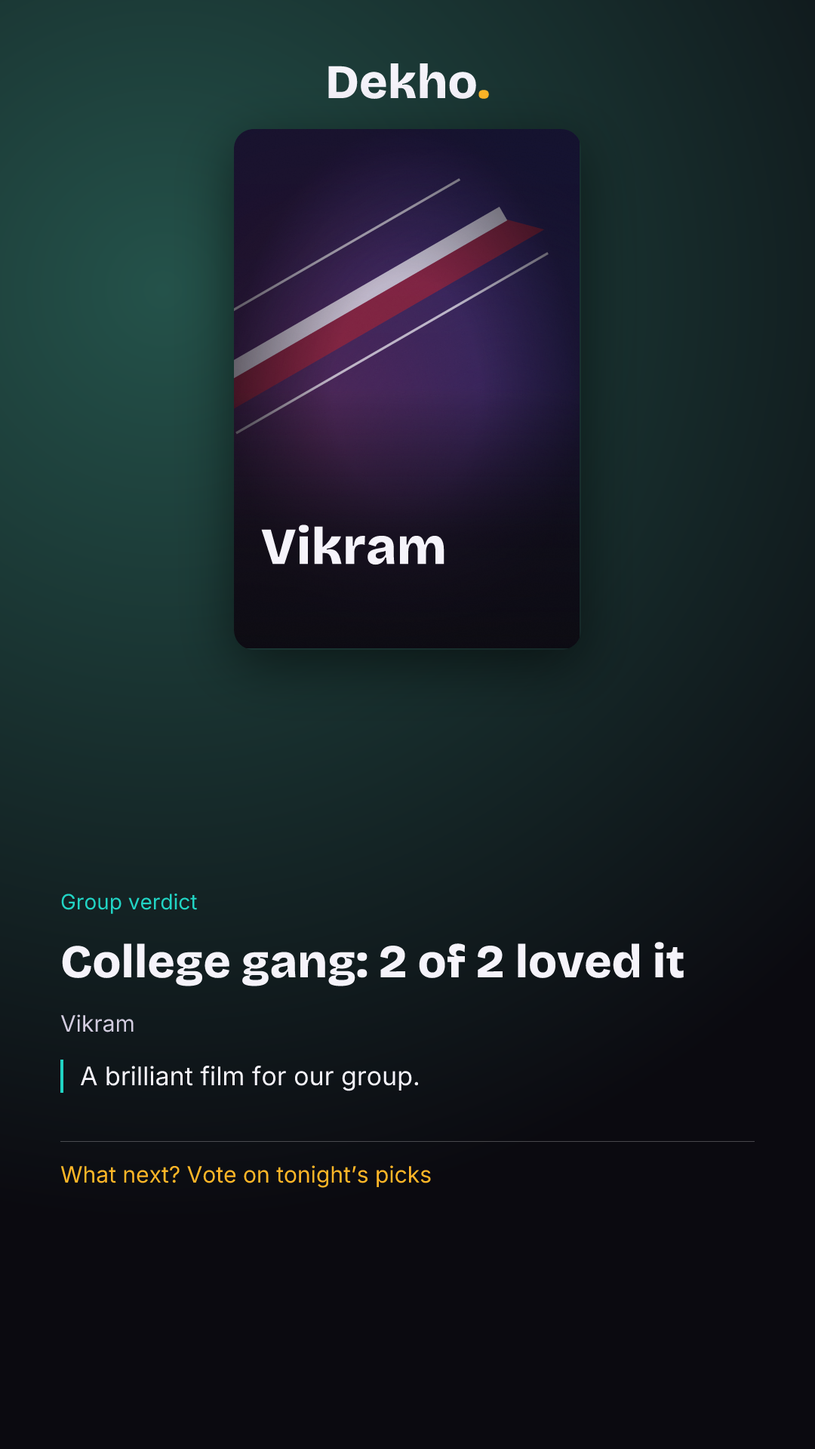
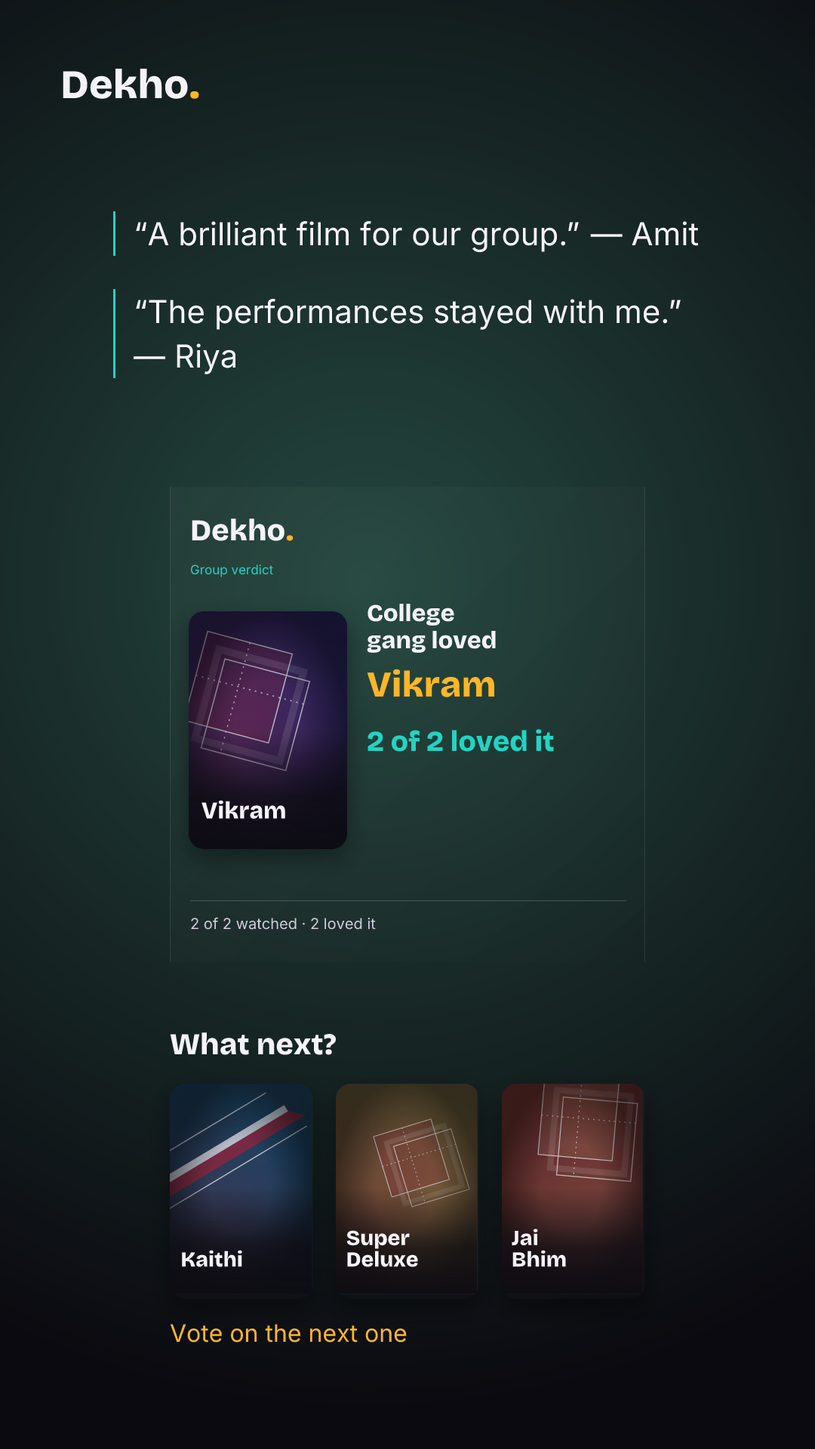
Audit credential history and refine verdict share cards

diff --git a/app/p/[id]/verdict-image/route.tsx b/app/p/[id]/verdict-image/route.tsx
@@ -2,24 +2,59 @@ import { ImageResponse } from 'next/og';
 import { readFile } from 'node:fs/promises';
 import path from 'node:path';
 import { brand } from '@/lib/brand';
-import { dataSource } from '@/lib/data';
+import { dataSource, type Title } from '@/lib/data';
 import { GeneratedPosterSvg } from '@/components/poster/PosterArtwork';
-import { fitTitle } from '@/lib/poster-art';
-import { parseVerdict } from '@/lib/polls/verdict-card';
+import { fitTitle, posterDesign } from '@/lib/poster-art';
+import { ogMotifs, type OgMotif } from '@/lib/polls/og';
+import { parseVerdict, verdictMood, verdictPreview, type VerdictCard } from '@/lib/polls/verdict-card';
 import { formatCopy } from '@/lib/copy';
 import { checkinCopy as c } from '@/.generated/copy/checkin';
 export const runtime='nodejs';
 const fonts=Promise.all([['Bricolage Grotesque','BricolageGrotesque-800.ttf',800],['Inter','Inter-400.ttf',400],['Inter','Inter-600.ttf',600]].map(async([name,file,weight])=>({name:String(name),data:await readFile(path.join(process.cwd(),'public/fonts',String(file))),weight:weight as 400|600|800,style:'normal' as const})));
+/** Rotate the default motif: the poll card's first poster uses that default. */
+function verdictMotif(title: Title): OgMotif { return ogMotifs[(ogMotifs.findIndex(m=>m===posterDesign(title).motif)+1)%ogMotifs.length]; }
+function Poster({title,width,id,alternate=false}: {title:Title;width:number;id:string;alternate?:boolean}) {
+ const fit=fitTitle(title.title,252,18,45);
+ return <div style={{display:'flex',width,height:width*1.5,overflow:'hidden',borderRadius:width<100?10:20,position:'relative',boxShadow:'0 12px 30px #0006',flexShrink:0}}><div style={{display:'flex',width:300,height:450,flexShrink:0,transform:`scale(${width/300})`,transformOrigin:'top left'}}><GeneratedPosterSvg title={title} definitionId={id} showTypography={false} motifOverride={alternate?verdictMotif(title):undefined}/><div style={{display:'flex',flexDirection:'column',position:'absolute',left:24,right:24,bottom:50,fontFamily:'Bricolage Grotesque',fontWeight:800,fontSize:fit.fontSize,lineHeight:1}}>{fit.lines.map((line,i)=><div key={i} style={{display:'flex'}}>{line}</div>)}</div></div></div>;
+}
+export async function GET(request:Request,context:{params:Promise<{id:string}>}) {
+ const mood=new URL(request.url).searchParams.get('preview');
+ if(!['loved','liked','split'].includes(mood??'')||(await context.params).id!=='verdict1')return new Response(formatCopy(c.invalid),{status:400});
+ return render(request,verdictPreview(mood as 'loved'|'liked'|'split'));
+}
 export async function POST(request:Request,context:{params:Promise<{id:string}>}) {
  const body=await request.text();if(body.length>4096)return new Response(formatCopy(c.invalid),{status:413});
  let card;try{card=parseVerdict(JSON.parse(body));}catch{return new Response(formatCopy(c.invalid),{status:400});}
- const {id}=await context.params;
- if(!card||card.pollId!==id)return new Response(formatCopy(c.invalid),{status:400});
+ if(!card||card.pollId!==(await context.params).id)return new Response(formatCopy(c.invalid),{status:400});
+ return render(request,card);
+}
+async function render(request:Request,card:VerdictCard) {
  const title=await dataSource.getTitle(card.titleId);if(!title)return new Response(formatCopy(c.invalid),{status:404});
- const story=new URL(request.url).searchParams.get('format')==='story',width=story?1080:1200,height=story?1920:630,posterW=story?460:300;
- const fit=fitTitle(title.title,252,18,45);
- return new ImageResponse(<div style={{display:'flex',flexDirection:story?'column':'row',width,height,padding:story?'70px 80px':'40px 50px',background:'radial-gradient(circle at 20% 20%, #24524A, #0B0A10 70%)',color:'#F5F3FA',gap:story?40:50,fontFamily:'Inter'}}>
-  <div style={{display:'flex',flexDirection:'column',alignItems:'center',flexShrink:0,width:story?'100%':320}}><div style={{display:'flex',fontFamily:'Bricolage Grotesque',fontWeight:800,fontSize:story?64:40,marginBottom:24}}>{brand.name}<span style={{color:brand.colors.marigold}}>{'.'}</span></div><div style={{display:'flex',width:posterW,height:posterW*1.5,overflow:'hidden',borderRadius:26,position:'relative',boxShadow:'0 20px 70px #0008'}}><div style={{display:'flex',width:300,height:450,flexShrink:0,transform:`scale(${posterW/300})`,transformOrigin:'top left'}}><GeneratedPosterSvg title={title} definitionId="verdict-poster" showTypography={false}/><div style={{display:'flex',flexDirection:'column',position:'absolute',left:24,right:24,bottom:65,fontFamily:'Bricolage Grotesque',fontWeight:800,fontSize:fit.fontSize,lineHeight:1}}>{fit.lines.map((line,i)=><div key={i} style={{display:'flex'}}>{line}</div>)}</div></div></div></div>
-  <div style={{display:'flex',flex:1,flexDirection:'column',justifyContent:'center',gap:story?30:20}}><div style={{display:'flex',color:brand.colors.teal,fontSize:story?28:20}}>{formatCopy(c.verdict)}</div><div style={{display:'flex',fontFamily:'Bricolage Grotesque',fontWeight:800,fontSize:story?62:card.group.length>35?38:48,lineHeight:1.06}}>{formatCopy(c.shareSummary,{...card})}</div><div style={{display:'flex',fontSize:story?30:22,color:'#D2CCDF'}}>{title.title}</div>{card.take&&<div style={{display:'flex',fontSize:story?34:25,borderLeft:'4px solid #21D4C4',paddingLeft:22,lineHeight:1.3}}>{card.take}</div>}<div style={{display:'flex',marginTop:story?34:15,paddingTop:25,borderTop:'1px solid #FFFFFF40',fontSize:story?30:23,color:brand.colors.marigold}}>{formatCopy(c.nextTag)}</div></div>
+ const picks=(await dataSource.getSimilar(title.id,3)).map(p=>p.title);
+ const story=new URL(request.url).searchParams.get('format')==='story',width=story?1080:1200,height=story?1920:630;
+ const mood=verdictMood(card),count=mood==='loved'?card.loved:card.loved+card.liked;
+ const headline=formatCopy(c[`${mood}Headline`],{group:card.group});
+ const titleFit=fitTitle(title.title,330,24,48), groupFit=fitTitle(headline,330,20,32);
+ // The core is exactly the center 630×630 of either format: x=285/y=0 or x=225/y=645.
+ const coreX=(width-630)/2,coreY=(height-630)/2;
+ return new ImageResponse(<div style={{display:'flex',width,height,background:'radial-gradient(circle at 45% 40%, #24473E, #0B0A10 85%)',color:'#F5F3FA',fontFamily:'Inter',position:'relative'}}>
+  <div style={{display:'flex',position:'absolute',left:coreX,top:coreY,width:630,height:630,background:'linear-gradient(135deg,#FFFFFF08,#FFFFFF00)',borderLeft:'1px solid #FFFFFF18',borderRight:'1px solid #FFFFFF18'}}>
+   <div style={{display:'flex',position:'absolute',left:26,top:34,fontFamily:'Bricolage Grotesque',fontWeight:800,fontSize:40}}>{brand.name}<span style={{color:brand.colors.marigold}}>{'.'}</span></div>
+   <div style={{display:'flex',position:'absolute',left:26,top:100,color:brand.colors.teal,fontSize:17}}>{formatCopy(c.verdict)}</div>
+   <div style={{display:'flex',position:'absolute',left:24,top:165}}><Poster title={title} width={210} id="verdict-winner" alternate/></div>
+   <div style={{display:'flex',flexDirection:'column',position:'absolute',left:260,top:150,width:344}}>
+    <div style={{display:'flex',flexDirection:'column',fontFamily:'Bricolage Grotesque',fontWeight:800,fontSize:groupFit.fontSize,lineHeight:1.12}}>{groupFit.lines.map((line,i)=><div key={i} style={{display:'flex'}}>{line}</div>)}</div>
+    <div style={{display:'flex',flexDirection:'column',fontFamily:'Bricolage Grotesque',fontWeight:800,fontSize:titleFit.fontSize,lineHeight:1.04,color:brand.colors.marigold,marginTop:15}}>{titleFit.lines.map((line,i)=><div key={i} style={{display:'flex'}}>{line}</div>)}</div>
+    <div style={{display:'flex',marginTop:30,fontFamily:'Bricolage Grotesque',fontWeight:800,fontSize:38,lineHeight:1.1,color:brand.colors.teal}}>{formatCopy(c[`${mood}Stat`],{count,total:card.total})}</div>
+   </div>
+   <div style={{display:'flex',position:'absolute',left:26,top:548,width:578,borderTop:'1px solid #FFFFFF30',paddingTop:18,fontSize:20,color:'#D2CCDF'}}>{formatCopy(c.summary,{watched:card.watched,total:card.total,loved:card.loved})}</div>
+  </div>
+  {story&&<div style={{display:'flex',position:'absolute',left:80,top:80,fontFamily:'Bricolage Grotesque',fontWeight:800,fontSize:54}}>{brand.name}<span style={{color:brand.colors.marigold}}>{'.'}</span></div>}
+  <div style={{display:'flex',flexDirection:'column',position:'absolute',left:story?150:24,top:story?180:195,width:story?780:230,...(story?{height:420,justifyContent:'center' as const}:{}),gap:story?44:20}}>{card.takes.slice(0,story?2:1).map((take,i)=><div key={i} style={{display:'flex',fontSize:story?42:24,lineHeight:1.4,borderLeft:'3px solid #21D4C4',paddingLeft:story?24:14}}>{formatCopy(c.attributedTake,take)}</div>)}</div>
+  <div style={{display:'flex',flexDirection:'column',position:'absolute',left:story?225:944,top:story?1360:154,width:story?630:232}}>
+   <div style={{display:'flex',fontFamily:'Bricolage Grotesque',fontWeight:800,fontSize:story?40:28,marginBottom:story?28:24}}>{formatCopy(c.whatNext)}</div>
+   <div style={{display:'flex',gap:story?30:8}}>{picks.map((pick,i)=><Poster key={pick.id} title={pick} width={story?190:72} id={`next-${i}`}/>)}</div>
+   <div style={{display:'flex',fontSize:story?32:25,color:brand.colors.marigold,marginTop:story?26:24,lineHeight:1.2}}>{formatCopy(c.voteNext)}</div>
+  </div>
  </div>,{width,height,fonts:await fonts});
 }

diff --git a/tests/watch-checkins.test.ts b/tests/watch-checkins.test.ts
@@ -2,7 +2,7 @@ import { beforeEach, afterEach, describe, expect, it, vi } from 'vitest';
 import { checkinDue, closedTime, validCheckin, verdict, winnerId, type Checkin } from '../lib/polls/checkins';
 import { pollStore, getCheckins, saveCheckin, getCheckinPolls, getGroupRating } from '../lib/polls';
 import { voterIdentity } from '../lib/polls/identity';
-import { parseVerdict } from '../lib/polls/verdict-card';
+import { parseVerdict, verdictMood, verdictPreview } from '../lib/polls/verdict-card';
 import type { Poll } from '../lib/polls/types';
 const now=Date.parse('2026-11-15T12:00:00Z'),hour=3600000;
 const poll:Poll={id:'test1234',name:'Night',note:'',titleIds:['vikram','kaithi'],deadline:new Date(now+hour).toISOString(),closedAt:new Date(now-6*hour).toISOString(),votes:{},expectedVoters:0,ballots:{me:{name:'Amit',ratings:{vikram:{score:1},kaithi:{score:1}}},other:{name:'Riya',ratings:{vikram:{score:1},kaithi:{score:1}}}}};
@@ -10,10 +10,17 @@ const row:Checkin={device:'me',titleId:'kaithi',name:'Amit',watched:true,rating:
 beforeEach(()=>{const values=new Map<string,string>();vi.stubGlobal('localStorage',{getItem:(k:string)=>values.get(k)??null,setItem:(k:string,v:string)=>values.set(k,v),removeItem:(k:string)=>values.delete(k)});vi.stubGlobal('window',new EventTarget());vi.stubGlobal('BroadcastChannel',undefined);});
 afterEach(()=>{vi.unstubAllGlobals();vi.useRealTimers();});
 describe('post-watch timing and summaries',()=>{
+ it('derives verdict headlines from watched ratings, validates counts and preserves attribution',()=>{
+  for(const mood of ['loved','liked','split'] as const){const card=verdictPreview(mood);expect(verdictMood(card)).toBe(mood);expect(parseVerdict(card)?.takes[0]).toEqual({name:'Amit',take:'A brilliant film for our group.'});}
+  expect(verdictMood({watched:4,loved:2,liked:1})).toBe('liked');
+  expect(verdictMood({watched:4,loved:2,liked:0})).toBe('split');
+  expect(parseVerdict({...verdictPreview('loved'),liked:1})).toBeNull();
+  expect(parseVerdict({...verdictPreview('loved'),takes:[{name:'',take:'Good'}]})).toBeNull();
+ });
  it('shows only participating devices, six hours after the effective finish',()=>{expect(checkinDue(poll,'me',[],now-1)).toBe(false);expect(checkinDue(poll,'me',[],now)).toBe(true);expect(checkinDue(poll,'stranger',[],now,true)).toBe(false);expect(checkinDue({...poll,closedAt:undefined},'me',[],now,true)).toBe(false);expect(checkinDue(poll,'me',[],now-5*hour,true)).toBe(true);expect(closedTime({...poll,deadline:new Date(now-8*hour).toISOString()})).toBe(now-8*hour);});
  it('dismisses skips and completed reviews, snoozes Not yet even in demo',()=>{expect(checkinDue(poll,'me',[row],now,true)).toBe(false);expect(checkinDue(poll,'me',[{...row,watched:false,rating:null}],now,true)).toBe(false);const later={...row,watched:null,rating:null,take:''};expect(checkinDue(poll,'me',[later],now,true)).toBe(false);expect(checkinDue(poll,'me',[later],now+24*hour)).toBe(true);});
  it('counts loved only among watched, uses all voters as denominator and ranks top take',()=>{const rows=[row,{...row,device:'other',name:'Riya',watched:false,rating:null,take:''}];expect(verdict(poll,rows)).toMatchObject({total:2,watched:1,loved:1});expect(verdict(poll,rows).takes).toEqual([row]);expect(winnerId(poll,{vikram:8,kaithi:9})).toBe('kaithi');expect(winnerId({...poll,ballots:{}},{})).toBeUndefined();});
- it('rejects invalid rating/take combinations and forged card totals',()=>{expect(validCheckin({watched:true,rating:null,take:''})).toBe(false);expect(validCheckin({watched:false,rating:2,take:''})).toBe(false);expect(validCheckin({watched:null,rating:null,take:'No'})).toBe(false);expect(validCheckin({watched:true,rating:1,take:'x'.repeat(81)})).toBe(false);const card={pollId:'test1234',titleId:'kaithi',group:'College gang',total:2,watched:1,loved:1,take:'Excellent'};expect(parseVerdict(card)).toEqual(card);expect(parseVerdict({...card,loved:2})).toBeNull();expect(parseVerdict({...card,take:'x'.repeat(81)})).toBeNull();});
+ it('rejects invalid rating/take combinations and forged card totals',()=>{expect(validCheckin({watched:true,rating:null,take:''})).toBe(false);expect(validCheckin({watched:false,rating:2,take:''})).toBe(false);expect(validCheckin({watched:null,rating:null,take:'No'})).toBe(false);expect(validCheckin({watched:true,rating:1,take:'x'.repeat(81)})).toBe(false);const card={pollId:'test1234',titleId:'kaithi',group:'College gang',total:2,watched:1,loved:1,liked:0,takes:[{name:'Amit',take:'Excellent'}]};expect(parseVerdict(card)).toEqual(card);expect(parseVerdict({...card,loved:2})).toBeNull();expect(parseVerdict({...card,takes:[{name:'Amit',take:'x'.repeat(81)}]})).toBeNull();});
  it('saves one check-in per device/poll, excludes open polls/nonvoters and feeds title satisfaction',async()=>{
   const me=voterIdentity().id;const p=await pollStore.createPoll({name:'Movie night',note:'',groupName:'College gang',titleIds:['vikram','kaithi'],deadline:new Date(Date.now()+hour).toISOString(),expectedVoters:0,creator:{id:me,name:'Amit'}});
   await expect(saveCheckin(p.id,{watched:true,rating:2,take:''})).rejects.toThrow();

diff --git a/components/watch-checkin.tsx b/components/watch-checkin.tsx
@@ -34,7 +34,7 @@ export default function GroupVerdict({poll,demo=false}: {poll:Poll;demo?:boolean
  useEffect(()=>{void refresh();const off=pollStore.subscribe(()=>void refresh());return off;},[refresh]);
  useEffect(()=>{const all=urls.current;return()=>all.forEach(u=>URL.revokeObjectURL(u));},[]);
  const summary=rows?verdict(poll,rows):null;
- async function share(){if(!summary||!title||busy)return;setBusy(true);setError('');try{const card={pollId:poll.id,titleId:title.id,group:poll.groupName||poll.name,total:summary.total,watched:summary.watched,loved:summary.loved,take:summary.takes[0]?.take??''};const blobs=await Promise.all(['wide','story'].map(async format=>{const r=await fetch(`/p/${poll.id}/verdict-image?format=${format}`,{method:'POST',headers:{'Content-Type':'application/json'},body:JSON.stringify(card)});if(!r.ok)throw Error();return r.blob();}));urls.current.forEach(u=>URL.revokeObjectURL(u));urls.current=blobs.map(b=>URL.createObjectURL(b));setDownloads(urls.current);files.current=blobs.map((b,i)=>new File([b],i?'verdict-story.png':'verdict.png',{type:'image/png'}));if(navigator.canShare?.({files:files.current})){await navigator.share({files:files.current,title:t('verdict')});setShared(true);track('verdict_share',{pollId:poll.id,method:'files'});}}catch(e){if(!(e instanceof Error&&e.name==='AbortError'))setError(t('error'));}finally{setBusy(false);}}
+ async function share(){if(!summary||!title||busy)return;setBusy(true);setError('');try{const card={pollId:poll.id,titleId:title.id,group:poll.groupName||poll.name,total:summary.total,watched:summary.watched,loved:summary.loved,liked:rows!.filter(r=>r.watched===true&&r.rating===1).length,takes:summary.takes.slice(0,2).map(r=>({name:r.name,take:r.take}))};const blobs=await Promise.all(['wide','story'].map(async format=>{const r=await fetch(`/p/${poll.id}/verdict-image?format=${format}`,{method:'POST',headers:{'Content-Type':'application/json'},body:JSON.stringify(card)});if(!r.ok)throw Error();return r.blob();}));urls.current.forEach(u=>URL.revokeObjectURL(u));urls.current=blobs.map(b=>URL.createObjectURL(b));setDownloads(urls.current);files.current=blobs.map((b,i)=>new File([b],i?'verdict-story.png':'verdict.png',{type:'image/png'}));if(navigator.canShare?.({files:files.current})){await navigator.share({files:files.current,title:t('verdict')});setShared(true);track('verdict_share',{pollId:poll.id,method:'files'});}}catch(e){if(!(e instanceof Error&&e.name==='AbortError'))setError(t('error'));}finally{setBusy(false);}}
  async function next(){if(!title)return;setBusy(true);try{const picks=await dataSource.getSimilar(title.id,3);const {usePrototype}=await import('@/lib/store');await usePrototype.persist.rehydrate();usePrototype.getState().setShortlist(picks.map(p=>p.title.id));track('next_poll_start',{pollId:poll.id,titleId:title.id});router.push(`/poll/new?group=${encodeURIComponent(poll.groupName??'')}`);}catch{setError(t('nextError'));}finally{setBusy(false);}}
  return <section className="group-verdict"><h2>{t('verdict')}</h2>{error&&<><p role="alert">{error}</p><button className="button button-secondary" onClick={()=>void refresh()}>{t('retry')}</button></>}{!rows&&!error&&<div className="skeleton checkin-loading" aria-label={t('loading')}/>}{rows&&title&&<WatchCheckin poll={poll} rows={rows} title={title} demo={demo} onSave={()=>void refresh()}/>} {summary&&rows&&(rows.length?<><p className="verdict-summary">{t('summary',summary)}</p>{summary.takes.map(r=><blockquote key={r.device}>{r.take}<cite>{r.name}</cite></blockquote>)}<button className="button button-primary" disabled={busy} onClick={()=>void share()}>{t(busy?'prepare':'share')}</button>{downloads.length>0&&<div className="result-downloads"><p>{t('ready')}</p>{downloads.map((url,i)=><a key={url} href={url} download={i?'verdict-story.png':'verdict.png'} onClick={()=>{setShared(true);track('verdict_share',{pollId:poll.id,method:'download'});}}>{t(i?'story':'wide')}</a>)}<a target="_blank" rel="noopener noreferrer" href={`https://wa.me/?text=${encodeURIComponent(`${t('shareSummary',{group:poll.groupName||poll.name,...summary})}. ${t('nextTag')} ${location.origin}/p/${poll.id}/result`)}`} onClick={()=>{setShared(true);track('verdict_share',{pollId:poll.id,method:'whatsapp'});}}>{t('whatsapp')}</a></div>}{shared&&<button className="button button-primary" disabled={busy} onClick={()=>void next()}>{t('next')}</button>}</>:<p className="muted">{t('empty')}</p>)}</section>;
 }

diff --git a/lib/polls/verdict-card.ts b/lib/polls/verdict-card.ts
@@ -1,8 +1,19 @@
-export interface VerdictCard { pollId: string; titleId: string; group: string; total: number; watched: number; loved: number; take: string }
+export interface VerdictCard { pollId: string; titleId: string; group: string; total: number; watched: number; loved: number; liked: number; takes: { name: string; take: string }[] }
+export type VerdictMood = 'loved' | 'liked' | 'split';
+/** A strict majority of watched ratings determines the headline. Loved is also positive. */
+export function verdictMood(card: Pick<VerdictCard,'watched'|'loved'|'liked'>): VerdictMood {
+ if(card.loved > card.watched / 2)return 'loved';
+ if(card.loved + card.liked > card.watched / 2)return 'liked';
+ return 'split';
+}
 export function parseVerdict(value: unknown): VerdictCard | null {
  if(!value||typeof value!=='object')return null;
  const v=value as VerdictCard;
- if(typeof v.pollId!=='string'||!/^[A-Za-z0-9_-]{8}$/.test(v.pollId)||typeof v.titleId!=='string'||!/^[a-z0-9-]{1,100}$/.test(v.titleId)||typeof v.group!=='string'||!v.group.trim()||v.group.length>80||typeof v.take!=='string'||v.take.length>80)return null;
- if(![v.total,v.watched,v.loved].every(n=>Number.isInteger(n)&&n>=0&&n<=10000)||!v.total||v.loved>v.watched||v.watched>v.total)return null;
- return {pollId:v.pollId,titleId:v.titleId,group:v.group,total:v.total,watched:v.watched,loved:v.loved,take:v.take};
+ if(typeof v.pollId!=='string'||!/^[A-Za-z0-9_-]{8}$/.test(v.pollId)||typeof v.titleId!=='string'||!/^[a-z0-9-]{1,100}$/.test(v.titleId)||typeof v.group!=='string'||!v.group.trim()||v.group.length>80)return null;
+ if(![v.total,v.watched,v.loved,v.liked].every(n=>Number.isInteger(n)&&n>=0&&n<=10000)||!v.total||v.loved+v.liked>v.watched||v.watched>v.total)return null;
+ if(!Array.isArray(v.takes)||v.takes.length>2||v.takes.some(t=>!t||typeof t.name!=='string'||!t.name.trim()||t.name.length>40||typeof t.take!=='string'||!t.take.trim()||t.take.length>80))return null;
+ return {pollId:v.pollId,titleId:v.titleId,group:v.group,total:v.total,watched:v.watched,loved:v.loved,liked:v.liked,takes:v.takes};
+}
+export function verdictPreview(mood: VerdictMood): VerdictCard {
+ return {pollId:'verdict1',titleId:'vikram',group:'College gang',total:2,watched:2,loved:mood==='loved'?2:0,liked:mood==='liked'?2:mood==='split'?1:0,takes:[{name:'Amit',take:'A brilliant film for our group.'},{name:'Riya',take:'The performances stayed with me.'}]};
 }

diff --git a/lib/copy.ts b/lib/copy.ts
@@ -3059,6 +3059,23 @@ export const labelsCopy = {
   }
 } as const;
 export const checkinCopy = {
+"lovedHeadline": {"indianEnglish": "{group} loved", "hinglish": "{group} loved"},
+"likedHeadline": {"indianEnglish": "{group} liked", "hinglish": "{group} liked"},
+"splitHeadline": {"indianEnglish": "{group} were split on", "hinglish": "{group} were split on"},
+"lovedStat": {"indianEnglish": "{count} of {total} loved it", "hinglish": "{count} of {total} loved it"},
+"likedStat": {"indianEnglish": "{count} of {total} liked it", "hinglish": "{count} of {total} liked it"},
+"splitStat": {"indianEnglish": "{count} of {total} liked it", "hinglish": "{count} of {total} liked it"},
+"whatNext": {"indianEnglish": "What next?", "hinglish": "What next?"},
+"voteNext": {"indianEnglish": "Vote on the next one", "hinglish": "Vote on the next one"},
+"attributedTake": {"indianEnglish": "“{take}” — {name}", "hinglish": "“{take}” — {name}"},
+"verdictPreviews": {"indianEnglish": "Post-watch verdict cards", "hinglish": "Post-watch verdict cards"},
+"previewLoved": {"indianEnglish": "Loved", "hinglish": "Loved"},
+"previewLiked": {"indianEnglish": "Liked", "hinglish": "Liked"},
+"previewSplit": {"indianEnglish": "Split", "hinglish": "Split"},
+"previewAlt": {"indianEnglish": "{mood} verdict card — {format}", "hinglish": "{mood} verdict card — {format}"},
+"wideFormat": {"indianEnglish": "Wide", "hinglish": "Wide"},
+"storyFormat": {"indianEnglish": "Story", "hinglish": "Story"},
+
   "question": {
     "indianEnglish": "Did you watch {title}?",
     "hinglish": "Did you watch {title}?"

diff --git a/app/(app)/kit/og/page.tsx b/app/(app)/kit/og/page.tsx
@@ -1,4 +1,5 @@
 
+import { checkinCopy as c } from '@/.generated/copy/checkin';
 import { formatCopy } from '@/lib/copy';
 import { kitCopy } from '@/.generated/copy/kit';
 import { brand } from '@/lib/brand';
@@ -15,5 +16,10 @@ export default function OgKitPage() {
         <span aria-hidden="true" style={{ position: 'absolute', pointerEvents: 'none', top: 0, bottom: 0, left: '23.75%', width: '52.5%', border: '1px dashed #21D4C4' }}/>
       </a></section>;
     })}
+    <h2 style={{marginTop:40}}>{formatCopy(c.verdictPreviews)}</h2>
+    {(['loved','liked','split'] as const).map(mood=><section key={mood} style={{marginTop:28}}><h3>{formatCopy(c[mood==='loved'?'previewLoved':mood==='liked'?'previewLiked':'previewSplit'])}</h3>{(['wide','story'] as const).map(format=>{const src=`/p/verdict1/verdict-image?preview=${mood}&format=${format}`;return <a key={format} href={src} target="_blank" rel="noreferrer" style={{display:'block',marginTop:12}}>
+      {/* eslint-disable-next-line @next/next/no-img-element */}
+      <img src={src} width={format==='wide'?1200:1080} height={format==='wide'?630:1920} alt={formatCopy(c.previewAlt,{mood,format})} style={{width:'100%',height:'auto',borderRadius:12}}/>
+    </a>;})}</section>)}
   </div>;
 }

diff --git a/README.md b/README.md
@@ -341,3 +341,11 @@ The database resolves the same winner as the app: net thumbs, then TMDb rating, 
 Run `node scripts/verify-checkins.mjs` for live checks: creates one labelled closed test poll across two isolated voting devices, verifies nonvoter rejection, finished-only writes, upsert isolation, safe aliases, winner selection, participant-only group ratings, discovery and take limits. Test polls remain for optional removal in Table Editor. The browser walkthrough intercepts WhatsApp navigation; it sends nothing. Screenshots/cards: `docs/p10-home-checkin.png`, `docs/p10-verdict.png`, `docs/p10-verdict-wide.png`, `docs/p10-verdict-story.png`.
 
 Validation: lint, strict typecheck, **103 tests**, and production build pass. Live Supabase verification passed for the new check-in RPCs/RLS; an isolated 390×844 browser passed Home timing/demo, saving, verdict updates from a second device, both PNG dimensions, WhatsApp fallback interception, three next picks, preserved group name, creation of the next cloud poll and the title rating. Native OS share-sheet delivery was not exercised; the fallback was verified without sending messages. Voter First Load JS remains 121 KB (the existing slightly-over-120 KB limitation); no fresh Lighthouse claims. `003_watch_checkins.sql` is confirmed applied. The older `002_groups.sql` migration is also now confirmed applied: its live group verification passed. Credentials and catalogue data were not changed.
+
+### P10 verdict-card polish and credential audit
+
+`/kit/og` now previews **loved / liked / split** verdicts in wide and story formats. Headlines use a strict majority of watched ratings: loved first, then total positive (up + loved), otherwise split. The large stat uses all poll voters as its denominator. Attributed takes are limited to one on wide cards and two on story cards. All three next posters use the same `getSimilar(winner, 3)` call as the next-poll CTA. The winner's motif rotates away from its default/poll-first motif. Poster, headline and stat stay within the central 630×630 region of both image sizes; long lockups fit up to three lines with ellipsis when needed. Kit previews are illustrative fixtures; real shares use check-in counts and names.
+
+Lint, typecheck, **104 tests** and production build pass. Browser checks cover all six preview images, exact output dimensions, long-content rendering and the 390px kit with no overflow. See `docs/p10-verdict-wide-screenshot.png` and `docs/p10-verdict-story.png`.
+
+The redacted credential audit is in `docs/p10-security-audit.md`. No service-role key, database password or PostgreSQL connection string was detected in the audited tracked history. Local environment and Supabase CLI config/state are ignored. The user applied SQL in the Dashboard as postgres; the agent used only the public anon key in ignored `.env.local` for API verification, never a migration credential.

diff --git a/docs/p10-security-audit.md b/docs/p10-security-audit.md
@@ -1,0 +1,20 @@
+# P10 credential audit — 13 November 2026
+
+No Supabase service-role key, database password or PostgreSQL connection string was detected in the audited repository/history. At baseline commit `770447f`, after fetching origin, the audit scanned all 395 unique Git blobs reachable from local refs and reflogs, including deleted historical files, and searched `git log --all --reflog -p` without printing matching lines or secret values.
+
+| History search | Matches | Explanation |
+| --- | ---: | --- |
+| `service_role` | 3 | Verification scripts reject privileged keys; no service-role JWT was found. |
+| `postgres://` | 0 | No PostgreSQL URI found. |
+| `postgresql://` | 0 | No PostgreSQL URI found. |
+| `SUPABASE_DB_PASSWORD`, `DATABASE_PASSWORD`, `DB_PASSWORD`, `PGPASSWORD` | 0 | No password-variable references/assignments found. |
+
+JWT-looking tokens were decoded locally to inspect their role without displaying tokens. Supabase secret-key patterns, literal password assignments and database URIs were checked. No sensitive password/service-role variables were configured in `.env.local`. The only tracked environment/config file was `.env.example`, containing public branding/localhost defaults and an empty commented artwork-key example. This is a pattern/value audit, not proof that an arbitrary unlabelled string could never be a password.
+
+`.gitignore` explicitly protects `.env.local`, all `.env*` except `.env.example`, `supabase/.temp/`, `supabase/.branches/`, `supabase/.cache/`, `supabase/.env*`, `supabase/config.toml`, and `.supabase/`. Ignore behavior was confirmed with `git check-ignore`; none of those local CLI/env files are tracked. SQL migrations remain tracked.
+
+## Who applied the migrations
+
+The user ran the migration SQL manually in Supabase SQL Editor, as requested, using the Dashboard's `postgres` execution role. The agent did **not** apply migrations, use a database password, use a service-role key, or store either credential. The agent cannot identify the user's Dashboard login credential or its storage from this repository.
+
+For API verification only, the scripts read `NEXT_PUBLIC_SUPABASE_URL` and `NEXT_PUBLIC_SUPABASE_ANON_KEY` from ignored `.env.local` through `@next/env`. The key's JWT role was checked and is `anon`. The scripts use random per-device UUIDs with the existing capability-based RPC contract; these are not database passwords. No credential value was printed or committed. The public anon key is intentionally used by the app's browser client; authorization rests on the database policies/RPCs.

diff --git a/docs/copy-review.md b/docs/copy-review.md
@@ -8,6 +8,22 @@ Placeholders such as `{p1}`, `{group}`, `{count}` and `{winner}` are runtime val
 
 | Screen | Key | Indian English | Hinglish |
 | --- | --- | --- | --- |
+| checkin | lovedHeadline | {group} loved | {group} loved |
+| checkin | likedHeadline | {group} liked | {group} liked |
+| checkin | splitHeadline | {group} were split on | {group} were split on |
+| checkin | lovedStat | {count} of {total} loved it | {count} of {total} loved it |
+| checkin | likedStat | {count} of {total} liked it | {count} of {total} liked it |
+| checkin | splitStat | {count} of {total} liked it | {count} of {total} liked it |
+| checkin | whatNext | What next? | What next? |
+| checkin | voteNext | Vote on the next one | Vote on the next one |
+| checkin | attributedTake | “{take}” — {name} | “{take}” — {name} |
+| checkin | verdictPreviews | Post-watch verdict cards | Post-watch verdict cards |
+| checkin | previewLoved | Loved | Loved |
+| checkin | previewLiked | Liked | Liked |
+| checkin | previewSplit | Split | Split |
+| checkin | previewAlt | {mood} verdict card — {format} | {mood} verdict card — {format} |
+| checkin | wideFormat | Wide | Wide |
+| checkin | storyFormat | Story | Story |
 | checkin | question | Did you watch {title}? | Did you watch {title}? |
 | checkin | yes | Yes | Yes |
 | checkin | later | Not yet | Not yet |
